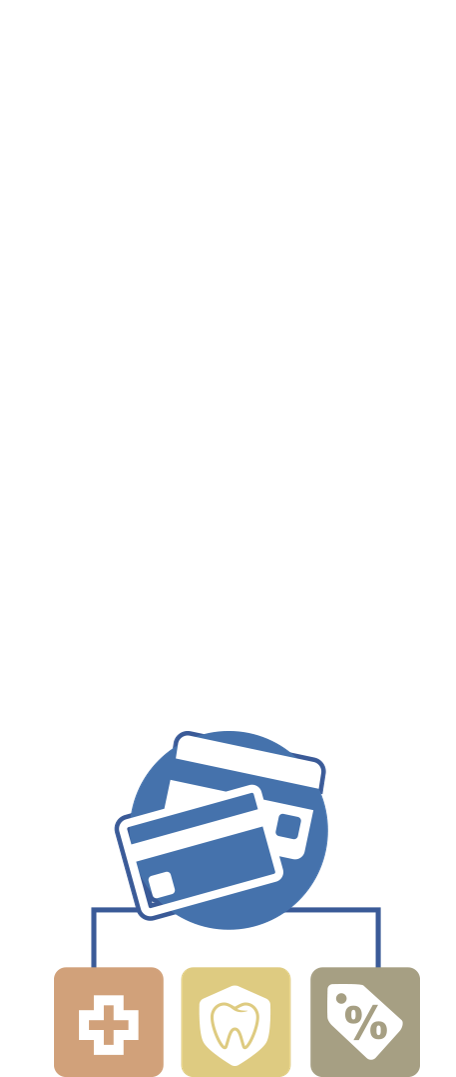
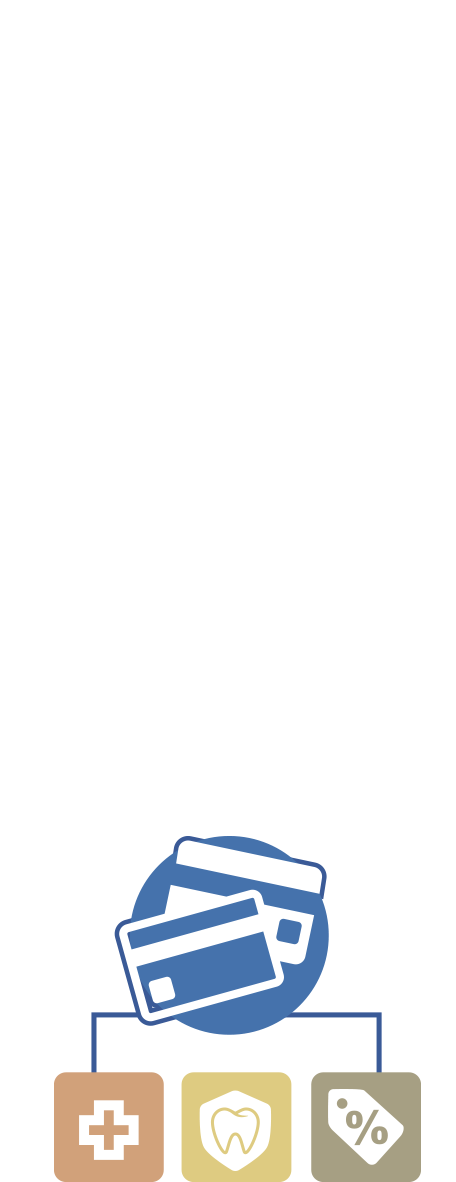
Mejora Universidades
Termiando

Changed region(s): [[0.1228, 0.6741, 0.9211, 1.0]]

diff --git a/public/css/universidades.css b/public/css/universidades.css
@@ -12,7 +12,7 @@
 }
 
 .imgUniversidades{
-	background-image: url('/images/universidades/Universidades_bkg_01b.jpg');
+	background-image: url('/images/universidades/Universidades_bkg_01c.png');
 	background-repeat: no-repeat;
 	background-size: 100% 100%;
 	/*background-size: contain;*/
@@ -58,7 +58,7 @@
 		flex:5 0px;
 		-webkit-order:2;
 		order:2;
-		background-image: url('/images/universidades/Universidades_bkg_01b.jpg');
+		background-image: url('/images/universidades/Universidades_bkg_01c.png');
 		background-repeat: no-repeat;
 		background-size: 100% 100%;
 		/*background-size: contain;*/
